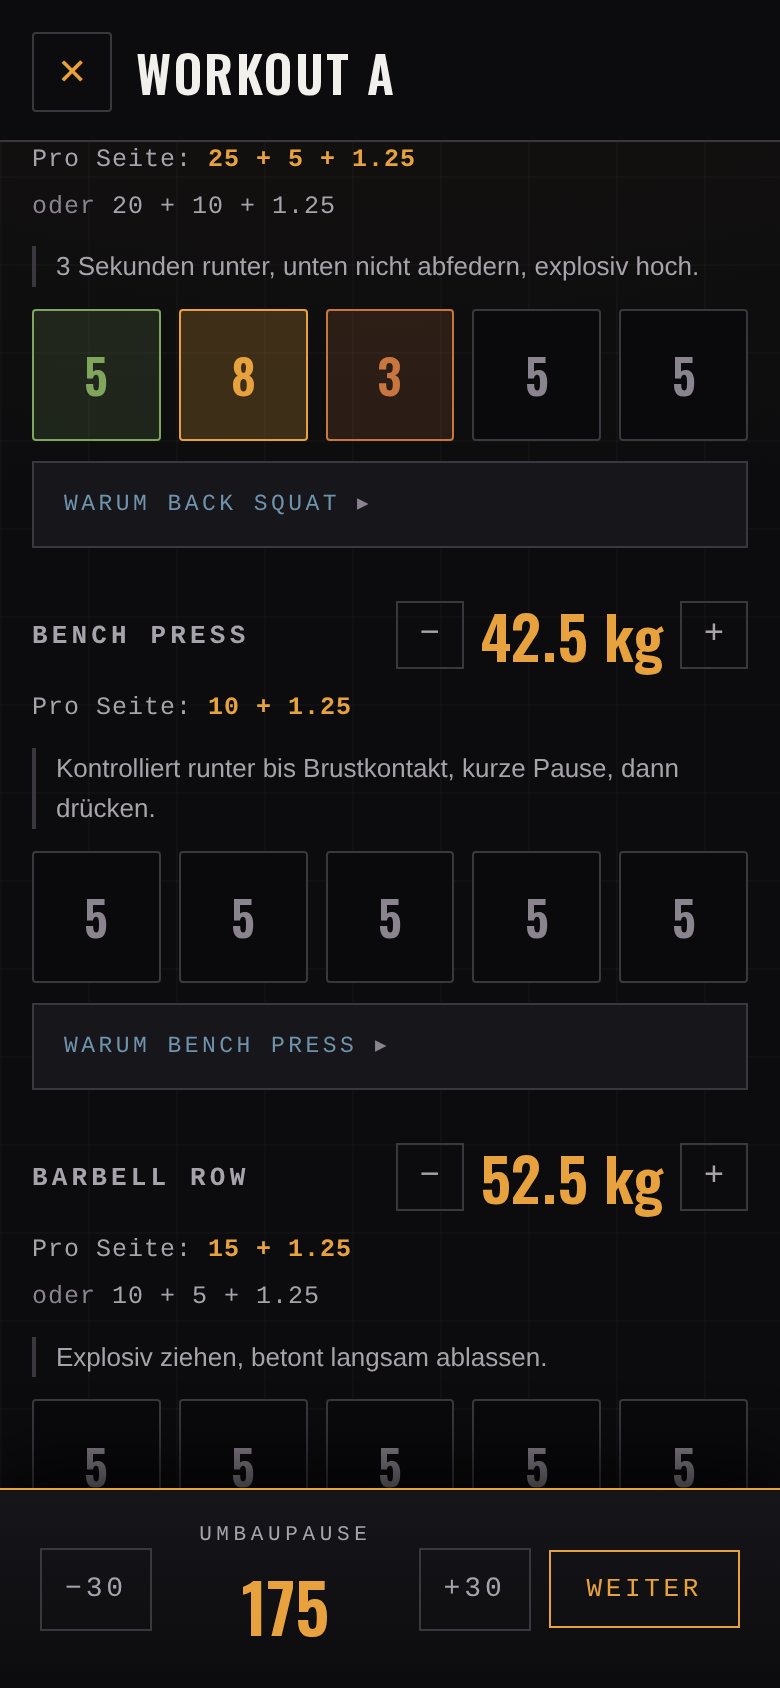
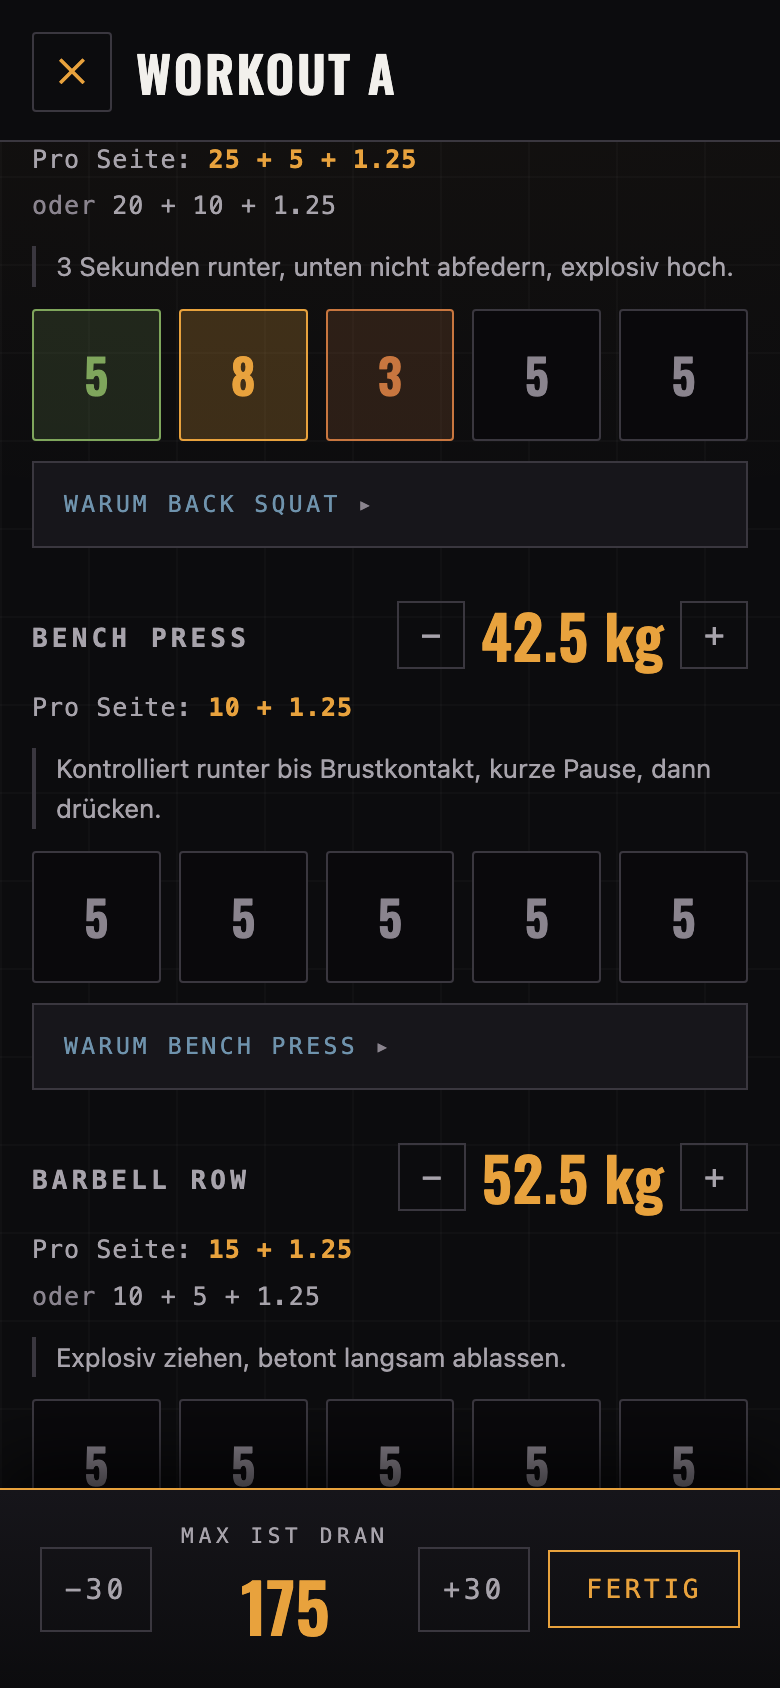
Screenshots: Einheit mit Pause "Max ist dran" (#5)
Die Szene "session" bekommt in shot.html einen Beispiel-Check-in fuer heute,
damit die Pausenleiste das Training zu zweit zeigt. Neu aufgenommen sind nur
session-dunkel.png und session-hell.png; die uebrigen Bilder bleiben, wie sie
sind, damit nicht jede Chrome-Version alle Aufnahmen verschiebt.

diff --git a/tools/shot.html b/tools/shot.html
@@ -155,7 +155,13 @@ localStorage.setItem('setlist.cache', JSON.stringify({
   config, state, fahrten, formVerlauf, wkg, gewichtsReihe,
   form: { form: 5, stufe: 'frisch', fitness: 52, ermuedung: 47,
           text: 'Ausgeruht. Wenn ein Tag für einen Versuch am oberen Ende taugt, dann dieser.' },
-  eftp: 243
+  eftp: 243,
+  // Nur in der Einheit: heute zu zweit, damit die Pause "Max ist dran" zeigt.
+  // Das Datum ist das lokale, wie in der App (tage() rechnet in UTC).
+  zusammen: (szene === 'session' || szene === 'session-hell') ? [{
+    id: 'abcdefgh23', mit: 'Max', rolle: 'einlader', bestaetigt: true,
+    datum: (d => `${d.getFullYear()}-${String(d.getMonth() + 1).padStart(2, '0')}-${String(d.getDate()).padStart(2, '0')}`)(new Date())
+  }] : undefined
 }));
 localStorage.setItem('setlist.logs', JSON.stringify({ zeit: Date.now(), logs }));
 localStorage.setItem('setlist.icu.key', 'demo');
